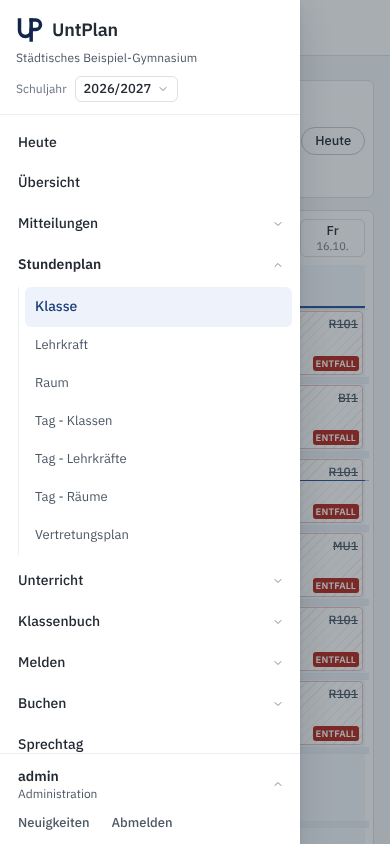
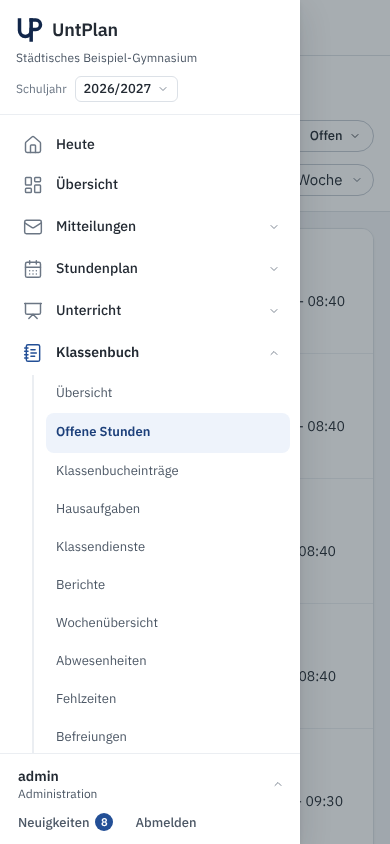
UntPlan Web: Seitenleiste mit Symbolen, moderner Pillen-Stil auch im Klassenbuch
Bereiche der Seitenleiste mit eigenen Linien-Symbolen, abgerundete aktive
Zeile, eingeklappt als Symbolleiste. Klassenbuch-Seiten wieder mit
Pillen-Knöpfen und -Feldern, runden Auswahlkreisen und weichen Karten;
Tabellenzellen auf dem Telefon als Karten. Web-Tests 375 grün.

Claude-Session: https://claude.ai/code/session_01Qh4Tuihm3YFN8v1UQgn9UW

diff --git a/web/src/UntPlanWeb/wwwroot/css/klassenbuch-seiten.css b/web/src/UntPlanWeb/wwwroot/css/klassenbuch-seiten.css
@@ -1,8 +1,7 @@
 /* UntPlan Web – Klassenbuch-Seiten (Übersicht, Offene Stunden, Einträge, Hausaufgaben, Klassendienste, Berichte, Wochenübersicht,
    Abwesenheiten, Fehlzeiten, Befreiungen, Sitzplan, Einstellungen). app.js setzt dafür .kb-seiten an .u-app.
-   Gestaltung: nüchterne, dichte Arbeitsansicht. Weißer Seitenkopf mit Titel (20 px) und einer Filterzeile aus rechteckigen Feldern
-   (32 px hoch, 1px-Rahmen, Radius 4 px), darunter Tabellen mit grauer Kopfzeile, 1px-Linien und 36–40 px hohen Zeilen. Zähler als kleine
-   Ziffern-Schildchen, Status als rechteckige Schilder in den Statusfarben. Keine Pillen, keine Symbolkacheln, keine großen Leerbilder. */
+   Gestaltung: moderne Arbeitsansicht wie die übrigen Seiten – Pillen-Knöpfe und -Felder (Rand 1,5 px), weiche Karten mit Radius 12 px
+   und leichtem Schatten, Tabellen mit grauer Kopfzeile und 1px-Linien, Status als runde Schildchen in den Statusfarben. */
 
 .kb-seiten { --kb-feld-h: 32px; --kb-zeile-h: 38px; }
 
@@ -13,12 +12,12 @@
   background: var(--up-schiefer-100); color: var(--up-text-2); font-size: var(--up-gr-s); font-weight: 500; font-variant-numeric: tabular-nums; vertical-align: 3px; }
 .kb-seiten.u-kopf-weiss #seite .u-kopfteil { margin-bottom: 16px; padding-bottom: 12px; }
 .kb-seiten.u-kopf-weiss:not(.u-kopf-suche) #seitenkopf { margin-bottom: 16px; }
-.kb-seiten.u-kopf-weiss :is(#kopfplatz, .u-kopfskelett)::before { height: var(--kb-feld-h); border-radius: var(--up-radius); }
+.kb-seiten.u-kopf-weiss :is(#kopfplatz, .u-kopfskelett)::before { height: var(--kb-feld-h); border-radius: 999px; }
 
 /* ------------------------------------------------------------------ Bedienelemente der Filterzeile */
 .kb-seiten .u-sf-leiste { gap: 8px 8px; }
 .kb-seiten .u-suchfilter, .kb-seiten.u-kopf-weiss .u-kopfteil .u-suchfilter, .kb-seiten .u-inhalt .u-suchfilter {
-  height: var(--kb-feld-h); min-height: var(--kb-feld-h); padding: 0 4px 0 10px; gap: 6px; border: 1px solid var(--up-rand-stark); border-radius: var(--up-radius);
+  height: var(--kb-feld-h); min-height: var(--kb-feld-h); padding: 0 6px 0 14px; gap: 6px; border: 1.5px solid var(--up-rand-stark); border-radius: 999px;
   background: var(--up-flaeche); box-shadow: none;
 }
 .kb-seiten .u-suchfilter:hover { background: var(--up-flaeche); border-color: var(--up-schiefer-400); }
@@ -30,14 +29,14 @@
 .kb-seiten .u-suchfilter.au-mit-x > .au-x { width: 22px; height: 22px; border-radius: var(--up-radius-s); background: none; }
 .kb-seiten .u-suchfilter.au-mit-x > .au-x:hover { background: var(--up-flaeche-hover); }
 .kb-seiten .u-suchfilter .au-knopf { font-size: var(--up-gr-m); font-weight: 500; }
-.kb-seiten .u-sf-chip { height: 22px; padding: 0 2px 0 8px; border-radius: var(--up-radius-s); background: var(--up-primaer-flaeche); color: var(--up-marine-700);
+.kb-seiten .u-sf-chip { height: 24px; padding: 0 2px 0 10px; border-radius: 999px; background: var(--up-primaer-flaeche); color: var(--up-marine-700);
   border: 1px solid var(--up-primaer-rand); font-size: var(--up-gr-s); font-weight: 500; }
-.kb-seiten .u-sf-chip button, .kb-seiten .u-sf-weg { width: 18px; height: 18px; border-radius: var(--up-radius-s); color: inherit; }
+.kb-seiten .u-sf-chip button, .kb-seiten .u-sf-weg { width: 18px; height: 18px; border-radius: 50%; color: inherit; }
 .kb-seiten .u-sf-chip button:hover, .kb-seiten .u-sf-weg:hover { background: var(--up-marine-100); }
 .kb-seiten .u-sf-zeit { font-size: var(--up-gr-m); font-weight: 500; color: var(--up-text-2); }
 
 .kb-seiten :is(.nl-pille, .kbw-heute, .kbu-heute), .kb-seiten .btn:not(.btn-link):not(.btn-close) {
-  height: var(--kb-feld-h); min-height: var(--kb-feld-h); padding: 0 12px; border-radius: var(--up-radius); border-width: 1px; font-size: var(--up-gr-m); font-weight: 500;
+  height: var(--kb-feld-h); min-height: var(--kb-feld-h); padding: 0 16px; border-radius: 999px; border-width: 1.5px; font-size: var(--up-gr-m); font-weight: 600;
   box-shadow: none;
 }
 .kb-seiten .nl-pille { border: 1px solid var(--up-rand-stark); background: var(--up-flaeche); color: var(--up-text); }
@@ -50,21 +49,23 @@
 .kb-seiten .btn-primary { background: var(--up-primaer); border-color: var(--up-primaer); }
 .kb-seiten .btn-primary:hover { background: var(--up-primaer-hover); border-color: var(--up-primaer-hover); }
 .kb-seiten .btn .bi, .kb-seiten .btn .u-sym { width: 14px; height: 14px; }
-.kb-seiten .au-knopf { min-height: var(--kb-feld-h); border-radius: var(--up-radius); }
+.kb-seiten .au-knopf { min-height: var(--kb-feld-h); border-radius: 999px; }
 
-/* Kennzahlen als Schnellfilter: rechteckige Schalter mit Ziffer */
+/* Kennzahlen als Schnellfilter: runde Schalter mit Ziffer */
 .kb-seiten .nl-zahlen { gap: 6px; margin-bottom: 12px; }
-.kb-seiten .nl-zahl { height: 26px; padding: 0 8px; border: 1px solid var(--up-rand); border-radius: var(--up-radius); background: var(--up-flaeche);
+.kb-seiten .nl-zahl { height: 28px; padding: 0 12px; border: 1.5px solid var(--up-rand); border-radius: 999px; background: var(--up-flaeche);
   font-size: var(--up-gr-s); font-weight: 400; color: var(--up-text-2); }
 .kb-seiten .nl-zahl b { font-weight: 600; color: var(--up-text); font-variant-numeric: tabular-nums; }
-.kb-seiten .nl-zahl.rot { border-left: 3px solid var(--up-entfall); background: var(--up-flaeche); }
+.kb-seiten .nl-zahl.rot { border-color: #f0c4bf; background: var(--up-entfall-flaeche); }
 .kb-seiten .nl-zahl.gelb { border-left: 3px solid var(--up-pruefung); background: var(--up-flaeche); }
 .kb-seiten .nl-zahl.lila { border-left: 3px solid var(--up-termin); background: var(--up-flaeche); }
 .kb-seiten .nl-zahl.aktiv { outline: 0; border-color: var(--up-marine-500); background: var(--up-primaer-flaeche); color: var(--up-marine-700); }
 
 /* ------------------------------------------------------------------ Tabellen */
-.kb-seiten :is(.nl-tabelle, .os-tabelle, .u-tabelle-karte) { border: 1px solid var(--up-rand); border-radius: var(--up-radius); box-shadow: none; background: var(--up-flaeche); }
+.kb-seiten :is(.nl-tabelle, .os-tabelle, .u-tabelle-karte) { border: 1px solid var(--up-rand); border-radius: 12px; box-shadow: 0 1px 3px rgba(21, 26, 33, .06); background: var(--up-flaeche); }
 .kb-seiten :is(.nl-tabelle, .os-tabelle, .u-tabelle-karte) table { font-size: var(--up-gr-m); font-variant-numeric: tabular-nums; }
+/* Zellen nur in der Tabellendarstellung; auf schmalen Bildschirmen bleiben die Zeilen Karten */
+@media (min-width: 768px) {
 .kb-seiten :is(.nl-tabelle, .os-tabelle, .u-tabelle-karte) th, .kb-seiten .os-liste .os-tabelle th {
   height: 34px; padding: 0 10px; background: var(--up-flaeche-2); border-bottom: 1px solid var(--up-rand); font-size: var(--up-gr-s); font-weight: 500;
   color: var(--up-text-2); text-transform: none; letter-spacing: 0; white-space: nowrap;
@@ -74,25 +75,23 @@
 }
 .kb-seiten :is(.nl-tabelle, .os-tabelle) tbody tr:hover td { background: var(--up-flaeche-hover); }
 .kb-seiten .os-liste .os-tabelle td.os-wahl, .kb-seiten .os-liste .os-tabelle th.os-wahl { width: 36px; padding-left: 10px; }
-/* Auswahl in Listen: eckige Kästchen statt runder Knöpfe */
-.kb-seiten :is(.nl-rund, .os-wahl input, .nl-tabelle input[type=checkbox], .nl-tabelle input[type=radio]) { border-radius: 3px !important; }
-.kb-seiten .nl-rund { width: 16px; height: 16px; border: 1px solid var(--up-rand-stark); }
-/* Aktionen in Tabellenzeilen („Prüfen“, „Eingeben“): kleine Textknöpfe */
-.kb-seiten :is(.os-pille, .nl-knopf) { height: 24px; min-height: 0; padding: 0 8px; border: 1px solid var(--up-rand-stark); border-radius: var(--up-radius-s); background: var(--up-flaeche);
-  color: var(--up-text); font-size: var(--up-gr-s); font-weight: 500; box-shadow: none; }
+}
+/* Aktionen in Tabellenzeilen („Prüfen“, „Eingeben“): kleine Pillen */
+.kb-seiten :is(.os-pille, .nl-knopf) { height: 26px; min-height: 0; padding: 0 12px; border: 1.5px solid var(--up-rand-stark); border-radius: 999px; background: var(--up-flaeche);
+  color: var(--up-text); font-size: var(--up-gr-s); font-weight: 600; box-shadow: none; }
 .kb-seiten :is(.os-pille, .nl-knopf):hover { border-color: var(--up-marine-500); color: var(--up-marine-700); background: var(--up-primaer-flaeche); }
 
 /* Status- und Artschilder */
-.kb-seiten :is(.s-label, .u-chip, .kbu-label, .nl-chip) { height: 20px; padding: 0 6px; border-radius: var(--up-radius-s); font-size: var(--up-gr-xs); font-weight: 500;
+.kb-seiten :is(.s-label, .u-chip, .kbu-label, .nl-chip) { height: 22px; padding: 0 9px; border-radius: 999px; font-size: var(--up-gr-xs); font-weight: 500;
   display: inline-flex; align-items: center; line-height: 1; }
 
 /* ------------------------------------------------------------------ Leerzustand: Text in einer schlichten Fläche */
 .kb-seiten :is(.u-leer, .s-leer, .kbw-leer) { padding: 20px 16px; text-align: left; color: var(--up-text-2); font-size: var(--up-gr-m); }
 .kb-seiten .u-leer > .bi, .kb-seiten .u-leer > .u-sym, .kb-seiten .s-leer-symbol { display: none; }
-.kb-seiten .card:has(> .u-leer), .kb-seiten .card:has(> .card-body > .u-leer) { border: 1px solid var(--up-rand); border-radius: var(--up-radius); box-shadow: none; }
+.kb-seiten .card:has(> .u-leer), .kb-seiten .card:has(> .card-body > .u-leer) { border: 1px solid var(--up-rand); border-radius: 12px; box-shadow: 0 1px 3px rgba(21, 26, 33, .06); }
 
 /* ------------------------------------------------------------------ Übersicht / Wochenübersicht (Raster der Unterrichte) */
-.kb-seiten .kbw-rahmen { border: 1px solid var(--up-rand); border-radius: var(--up-radius); box-shadow: none; overflow: hidden; }
+.kb-seiten .kbw-rahmen { border: 1px solid var(--up-rand); border-radius: 12px; box-shadow: 0 1px 3px rgba(21, 26, 33, .06); overflow: hidden; }
 .kb-seiten .kbw-kopf, .kb-seiten .kbw-tag { background: var(--up-flaeche-2); font-size: var(--up-gr-s); font-weight: 500; color: var(--up-text-2); }
 .kb-seiten .kbw-block { border-radius: 0; box-shadow: none; }
 .kb-seiten .kbw-zahlen { font-size: var(--up-gr-s); font-variant-numeric: tabular-nums; }
@@ -101,23 +100,23 @@
 
 /* ------------------------------------------------------------------ Berichte: dichte Liste ohne Symbolkacheln */
 .kb-seiten .br-symbol { display: none; }
-.kb-seiten .br-liste { border: 1px solid var(--up-rand); border-radius: var(--up-radius); background: var(--up-flaeche); overflow: hidden; }
+.kb-seiten .br-liste { border: 1px solid var(--up-rand); border-radius: 12px; box-shadow: 0 1px 3px rgba(21, 26, 33, .06); background: var(--up-flaeche); overflow: hidden; }
 .kb-seiten .br-reihe { grid-template-columns: minmax(0, 1fr) auto auto; padding: 8px 12px; min-height: 48px; border-radius: 0; border: 0; border-bottom: 1px solid var(--up-linie);
   box-shadow: none; background: var(--up-flaeche); }
 .kb-seiten .br-reihe:last-child { border-bottom: 0; }
 .kb-seiten .br-reihe:hover { background: var(--up-flaeche-hover); }
 .kb-seiten .br-reihe-text b, .kb-seiten .br-reihe-text strong { font-size: var(--up-gr-n); font-weight: 600; }
 .kb-seiten .br-reihe-text small, .kb-seiten .br-reihe-text p { font-size: var(--up-gr-s); color: var(--up-text-2); }
-.kb-seiten .br-knopf { height: 26px; padding: 0 8px; border: 1px solid var(--up-rand-stark); border-radius: var(--up-radius-s); background: var(--up-flaeche);
-  font-size: var(--up-gr-s); font-weight: 500; color: var(--up-text); }
+.kb-seiten .br-knopf { height: 30px; padding: 0 14px; gap: 6px; border: 1.5px solid var(--up-rand-stark); border-radius: 999px; background: var(--up-flaeche);
+  font-size: var(--up-gr-s); font-weight: 600; color: var(--up-text); }
 .kb-seiten .br-knopf:hover { border-color: var(--up-marine-500); color: var(--up-marine-700); }
-.kb-seiten .br-knopf .bi { display: none; }
+.kb-seiten .br-knopf .bi { width: 14px; height: 14px; }
 .kb-seiten .br-abschnitt > h2, .kb-seiten .br-abschnitt > h3, .kb-seiten .br-abschnitt-titel { font-size: var(--up-gr-s); font-weight: 600; color: var(--up-text-2);
   text-transform: none; letter-spacing: 0; margin: 16px 0 6px; }
 
 /* ------------------------------------------------------------------ Klassendienste, Einstellungen, Sitzplan */
 .kb-seiten .kd-bericht .bi, .kb-seiten .kbe-symbol { display: none; }
-.kb-seiten .kbe-karte { border: 1px solid var(--up-rand); border-radius: var(--up-radius); box-shadow: none; }
+.kb-seiten .kbe-karte { border: 1px solid var(--up-rand); border-radius: 12px; box-shadow: 0 1px 3px rgba(21, 26, 33, .06); }
 .kb-seiten .kbe-reiter { border-bottom: 1px solid var(--up-rand); }
 .kb-seiten .kbe-reiter :is(a, button) .bi { display: none; }
 .kb-seiten .sp-knopf { border-radius: var(--up-radius); }

diff --git a/web/src/UntPlanWeb/wwwroot/css/seitenleiste.css b/web/src/UntPlanWeb/wwwroot/css/seitenleiste.css
@@ -1,10 +1,10 @@
 /* UntPlan Web – Seitenleiste (js/app.js: huelle, leisteZeichnen). Wird als letzte Stildatei geladen.
-   Helle Leiste links mit 1px-Linie: oben Zeichen und Wortmarke mit dem Schulnamen, darunter das Schuljahr, dann die Bereiche als
-   aufklappbare Textgruppen (Pfeil rechts), unten Konto, Neuigkeiten, Abmelden und „Navigation ausblenden“. Keine Symbole vor den
-   Menüpunkten, kein Balken am aktiven Punkt – der aktive Punkt hat eine helle Marine-Fläche und Marine-Schrift.
-   Ausgeblendet bleibt links eine schmale Schiene mit dem Menüknopf. Telefon/Tablet (< 992 px): Kopfleiste mit „Menü“, Leiste als Schublade. */
+   Helle Leiste links: oben Zeichen und Wortmarke mit dem Schulnamen, darunter das Schuljahr, dann die Bereiche mit eigenen
+   Linien-Symbolen (Lucide). Bereiche klappen an Ort und Stelle auf (Unterpunkte eingerückt an einer feinen Linie, ohne Symbole).
+   Aktiver Punkt: abgerundete Marine-Fläche, Symbol in Marine. Unten Konto, Neuigkeiten, Abmelden und Einklappen.
+   Eingeklappt bleibt eine schmale Leiste mit den Symbolen der Bereiche. Telefon/Tablet (< 992 px): Leiste als Schublade. */
 
-:root { --u-leiste: 248px; --u-leiste-zu: 40px; }
+:root { --u-leiste: 256px; --u-leiste-zu: 68px; }
 
 .u-app .u-leiste {
   width: var(--u-leiste); background: var(--up-flaeche); box-shadow: none; border-right: 1px solid var(--up-rand);
@@ -39,9 +39,9 @@
 .u-app .u-jahrliste button { font-weight: 400; font-size: var(--up-gr-m); padding: 5px 14px; font-variant-numeric: tabular-nums; }
 
 /* Menü */
-.u-app .u-nav { padding: 8px 8px 16px; }
+.u-app .u-nav { padding: 10px 10px 16px; }
 .u-app .u-nav-punkt, .u-app .u-nav-punkt:hover, .u-app .u-nav-punkt.aktiv, .u-app .u-nav-punkt.aktiv:hover {
-  width: 100%; min-height: 32px; gap: 8px; padding: 0 8px 0 10px; margin: 0; border-radius: var(--up-radius);
+  width: 100%; min-height: 40px; gap: 12px; padding: 0 10px 0 12px; margin: 0; border-radius: 10px;
   font-size: var(--up-gr-n); font-weight: 500; color: var(--up-text); line-height: 1.25;
 }
 .u-app .u-nav-punkt::before { content: none; }
@@ -49,17 +49,24 @@
 .u-app .u-nav-punkt:hover { background: var(--up-flaeche-hover); color: var(--up-text); }
 .u-app .u-nav-punkt.aktiv, .u-app .u-nav-punkt.aktiv:hover { background: var(--up-primaer-flaeche); color: var(--up-marine-700); font-weight: 600; }
 .u-app .u-nav-punkt:focus-visible { outline: 2px solid var(--up-fokus, var(--up-marine-500)); outline-offset: -2px; }
-.u-app .u-nav-gruppe + .u-nav-gruppe, .u-app .u-nav-punkt + .u-nav-gruppe, .u-app .u-nav-gruppe + .u-nav-punkt { margin-top: 1px; }
+.u-nav-sym { width: 22px; height: 22px; flex: none; display: inline-flex; align-items: center; justify-content: center; color: var(--up-text-2); }
+.u-nav-sym .u-sym { width: 20px; height: 20px; vertical-align: 0; }
+.u-app .u-nav-punkt:hover .u-nav-sym { color: var(--up-text); }
+.u-app .u-nav-punkt.aktiv .u-nav-sym, .u-app .u-nav-gruppe.hat-aktiv > .u-nav-kopf .u-nav-sym { color: var(--up-marine-600); }
+.u-app .u-nav-text { flex: 1; min-width: 0; overflow: hidden; text-overflow: ellipsis; white-space: nowrap; }
+.u-app .u-nav-gruppe + .u-nav-gruppe, .u-app .u-nav-punkt + .u-nav-gruppe, .u-app .u-nav-gruppe + .u-nav-punkt { margin-top: 2px; }
 .u-app .u-nav-kopf.aktiv, .u-app .u-nav-kopf.aktiv:hover { background: none; color: var(--up-text); font-weight: 600; }
 .u-app .u-nav-kopf.aktiv:hover { background: var(--up-flaeche-hover); }
+.u-app .u-nav-gruppe.auf > .u-nav-kopf { font-weight: 600; }
 .u-nav-pfeil { width: 12px; height: 12px; flex: none; color: var(--up-text-3); transition: transform .15s ease; }
 .u-nav-gruppe.auf > .u-nav-kopf .u-nav-pfeil { transform: rotate(180deg); }
-.u-nav-liste { margin: 2px 0 6px 10px; padding-left: 6px; border-left: 1px solid var(--up-linie); }
+.u-nav-liste { margin: 2px 0 8px 22px; padding-left: 12px; border-left: 2px solid var(--up-linie); }
 .u-nav-liste[hidden] { display: none; }
-.u-app .u-nav-unterpunkt, .u-app .u-nav-unterpunkt:hover { min-height: 30px; font-weight: 400; font-size: var(--up-gr-m); color: var(--up-text-2); }
+.u-app .u-nav-unterpunkt, .u-app .u-nav-unterpunkt:hover, .u-app .u-nav-unterpunkt.aktiv, .u-app .u-nav-unterpunkt.aktiv:hover {
+  min-height: 34px; padding: 0 10px; border-radius: 8px; font-weight: 400; font-size: var(--up-gr-m); color: var(--up-text-2); }
 .u-app .u-nav-unterpunkt:hover { color: var(--up-text); }
-.u-app .u-nav-unterpunkt.aktiv, .u-app .u-nav-unterpunkt.aktiv:hover { font-weight: 500; color: var(--up-marine-700); }
-.u-app .u-nav .u-zahl { margin-left: auto; min-width: 20px; height: 18px; padding: 0 6px; border-radius: var(--up-radius-s); background: var(--up-primaer);
+.u-app .u-nav-unterpunkt.aktiv, .u-app .u-nav-unterpunkt.aktiv:hover { font-weight: 600; color: var(--up-marine-700); }
+.u-app .u-nav .u-zahl { margin-left: auto; min-width: 20px; height: 20px; padding: 0 6px; border-radius: 999px; background: var(--up-primaer);
   color: #fff; font-size: var(--up-gr-xs); font-weight: 600; display: inline-flex; align-items: center; justify-content: center; position: static; }
 .u-app .u-nav .u-zahl.d-none { display: none; }
 
@@ -81,8 +88,8 @@
   display: flex; align-items: center; justify-content: flex-start; gap: 6px; width: 100%; height: 28px; margin: 4px 0 0; padding: 0 10px; border: 0; border-radius: var(--up-radius);
   background: none; color: var(--up-text-3); font-size: var(--up-gr-s);
 }
-.u-app .u-griff span, .u-app .u-griff:hover span { position: static; width: auto; height: auto; transform: none; background: none; border-radius: 0; }
-.u-app .u-griff span::after { content: none; }
+.u-app .u-griff span:not(.u-sym), .u-app .u-griff:hover span:not(.u-sym) { position: static; width: auto; height: auto; transform: none; background: none; border-radius: 0; }
+.u-app .u-griff span:not(.u-sym)::after { content: none; }
 .u-app .u-griff:hover { background: var(--up-flaeche-hover); color: var(--up-text); }
 .u-app .u-griff .u-sym, .u-app .u-griff .bi { width: 14px; height: 14px; }
 .u-app .u-kontomenue { left: 8px; right: 8px; bottom: calc(100% - 4px); border-radius: var(--up-radius); border: 1px solid var(--up-rand); box-shadow: var(--up-schatten-2); padding: 4px 0; }
@@ -91,20 +98,21 @@
 .u-app .u-kontokopf { padding: 6px 12px 2px; font-size: var(--up-gr-xs); color: var(--up-text-3); text-transform: none; letter-spacing: 0; }
 .u-app .u-konto small { font-weight: 400; color: var(--up-text-2); }
 
-/* Ausgeblendete Leiste: schmale Schiene mit Menüknopf */
+/* Eingeklappte Leiste: schmale Leiste mit den Symbolen der Bereiche (Unterpunkte öffnen beim Aufklappen der Leiste) */
 .u-leiste-auf { display: none; }
 @media (min-width: 992px) {
-  .u-app.zu .u-leiste { width: var(--u-leiste); transform: translateX(-102%); }
+  .u-app.zu .u-leiste { width: var(--u-leiste-zu); transform: none; overflow: hidden; }
   .u-app.zu .u-haupt { margin-left: var(--u-leiste-zu); }
-  .u-app.zu .u-leiste-auf {
-    display: flex; justify-content: center; position: fixed; inset: 0 auto 0 0; z-index: 1039; width: var(--u-leiste-zu); padding: 12px 0 0;
-    border: 0; border-right: 1px solid var(--up-rand); background: var(--up-flaeche); color: var(--up-text-2);
-  }
-  .u-app.zu .u-leiste-auf:hover { color: var(--up-text); background: var(--up-flaeche-hover); }
-  .u-app.zu .u-leiste-auf .u-sym, .u-app.zu .u-leiste-auf .bi { width: 18px; height: 18px; }
-  /* eingeklappte Darstellung mit Symbolen gibt es nicht mehr – Text bleibt immer sichtbar */
-  .u-app.zu .u-marke span, .u-app.zu .u-nav-text, .u-app.zu .u-benutzer-text { display: revert; }
-  .u-app.zu .u-jahrzeile { display: block; }
+  .u-app.zu .u-marke small, .u-app.zu .u-marke .wortmarke, .u-app.zu .u-jahrzeile, .u-app.zu .u-nav-text, .u-app.zu .u-nav-pfeil,
+  .u-app.zu .u-nav-liste, .u-app.zu .u-benutzer-text, .u-app.zu .u-benutzer > .bi, .u-app.zu .u-fusslinks, .u-app.zu .u-griff > span:not(.u-sym),
+  .u-app.zu .u-nav .u-zahl { display: none !important; }
+  .u-app.zu .u-leistenkopf { padding: 16px 0 12px; display: flex; justify-content: center; }
+  .u-app.zu .u-nav { padding: 10px 8px; }
+  .u-app.zu .u-nav-punkt, .u-app.zu .u-nav-punkt:hover, .u-app.zu .u-nav-punkt.aktiv { justify-content: center; padding: 0; gap: 0; }
+  .u-app.zu .u-nav-gruppe.hat-aktiv > .u-nav-kopf { background: var(--up-primaer-flaeche); }
+  .u-app.zu .u-fuss { padding: 8px; }
+  .u-app.zu .u-benutzer { justify-content: center; padding: 6px 0; }
+  .u-app.zu .u-griff { justify-content: center; padding: 0; }
 }
 
 /* Telefon und Tablet: Kopfleiste mit „Menü“, Leiste als Schublade */
@@ -124,3 +132,9 @@
   .u-app .u-nav-unterpunkt, .u-app .u-nav-unterpunkt:hover { min-height: 38px; }
 }
 @media print { .u-leiste-auf { display: none !important; } }
+.u-app.zu .u-griff .u-sym { transform: rotate(180deg); }
+.u-benutzer-sym { display: none; }
+@media (min-width: 992px) { .u-app.zu .u-benutzer-sym { display: inline-flex; } .u-app.zu .u-benutzer-sym .u-sym { width: 20px; height: 20px; } }
+.u-app .u-griff .u-sym, .u-app .u-griff:hover .u-sym { position: static; transform: none; width: 14px; height: 14px; border-radius: 0; background-color: currentColor; top: auto; left: auto; }
+.u-app .u-griff .u-sym::after { content: none; }
+.u-app.zu .u-griff .u-sym { transform: rotate(180deg); }

diff --git a/web/src/UntPlanWeb/wwwroot/js/app.js b/web/src/UntPlanWeb/wwwroot/js/app.js
@@ -1,7 +1,7 @@
 // UntPlanWeb – Einstieg: Sitzung laden, Anmeldung/Einrichtung, Hülle (helle Seitenleiste links mit Marke, Schuljahr, Bereichen als
 // aufklappbaren Textgruppen, Konto unten) und Hash-Router.
 import { icon, e, holen, senden, api, fehler, alarm, lade, toast } from './ui.js';
-import { MARKE } from './symbole.js';
+import { MARKE, symbol } from './symbole.js';
 import { beobachten as auswahlBeobachten } from './auswahl.js';
 import { beobachten as kalenderBeobachten } from './kalender.js';
 
@@ -549,18 +549,18 @@ function leisteZeichnen() {
   zaehlerAktualisieren();
 }
 
-/** Einzelner Menüpunkt: reiner Text, rechts ggf. die Zahl ungelesener Mitteilungen. */
+/** Einzelner Menüpunkt: Hauptpunkte mit Symbol, Unterpunkte als Text; rechts ggf. die Zahl ungelesener Mitteilungen. */
 function punktHtml(p, unter = false) {
-  return `<a class="u-nav-punkt ${unter ? 'u-nav-unterpunkt' : ''}" href="${p.href}" data-nav="${p.nav}"><span class="u-nav-text">${e(p.text)}</span>`
+  return `<a class="u-nav-punkt ${unter ? 'u-nav-unterpunkt' : ''}" href="${p.href}" data-nav="${p.nav}" title="${e(p.text)}">${unter ? '' : `<span class="u-nav-sym">${symbol(p.icon) ?? ''}</span>`}<span class="u-nav-text">${e(p.text)}</span>`
     + `${p.zaehler ? '<span class="u-zahl d-none" data-zaehler></span>' : ''}</a>`;
 }
 
-/** Bereich mit Unterpunkten: Kopfzeile zum Auf- und Zuklappen (Pfeil rechts), darunter eingerückt die Seiten. */
+/** Bereich mit Unterpunkten: Kopfzeile mit Symbol zum Auf- und Zuklappen (Pfeil rechts), darunter eingerückt die Seiten. */
 function gruppeHtml(g) {
   const auf = offeneGruppen.has(g.id);
   return `<div class="u-nav-gruppe ${auf ? 'auf' : ''}" data-gruppe-box="${g.id}">
       <button type="button" class="u-nav-punkt u-nav-kopf" data-gruppe="${g.id}" aria-expanded="${auf}" aria-controls="u-nav-${g.id}">
-        <span class="u-nav-text">${e(g.text)}</span>${g.zaehler ? '<span class="u-zahl d-none" data-zaehler></span>' : ''}<i class="bi bi-chevron-down u-nav-pfeil" aria-hidden="true"></i></button>
+        <span class="u-nav-sym">${symbol(g.icon) ?? ''}</span><span class="u-nav-text">${e(g.text)}</span>${g.zaehler ? '<span class="u-zahl d-none" data-zaehler></span>' : ''}<i class="bi bi-chevron-down u-nav-pfeil" aria-hidden="true"></i></button>
       <div class="u-nav-liste" id="u-nav-${g.id}" ${auf ? '' : 'hidden'}>${g.unter.filter(p => !p.verborgen).map(p => punktHtml(p, true)).join('')}</div>
     </div>`;
 }
@@ -606,6 +606,7 @@ function aktivMarkieren() {
     if (an) a.setAttribute('aria-current', 'page'); else a.removeAttribute('aria-current');
   });
   document.querySelectorAll('#seitenleiste [data-gruppe]').forEach(a => a.classList.toggle('aktiv', a.dataset.gruppe === gruppe?.id));
+  document.querySelectorAll('#seitenleiste [data-gruppe-box]').forEach(b => b.classList.toggle('hat-aktiv', b.dataset.gruppeBox === gruppe?.id));
   document.querySelector('.u-benutzer')?.classList.toggle('aktiv', aktiverPunkt === 'profil');
 }
 
@@ -626,13 +627,13 @@ function huelle() {
         <nav class="u-nav"></nav>
         <div class="u-fuss">
           <button type="button" class="u-benutzer" data-kontomenue title="Konto" aria-haspopup="menu" aria-expanded="false">
-            <span class="u-benutzer-text"><b>${e(b.login)}</b><small>${e(b.rollenname)}</small></span><i class="bi bi-chevron-up" aria-hidden="true"></i></button>
+            <span class="u-benutzer-sym">${symbol('profil')}</span><span class="u-benutzer-text"><b>${e(b.login)}</b><small>${e(b.rollenname)}</small></span><i class="bi bi-chevron-up" aria-hidden="true"></i></button>
           <div class="u-kontomenue d-none" role="menu" data-konten></div>
           <div class="u-fusslinks">
             <a class="u-abmelden u-neuigkeiten" href="#/neuigkeiten" data-neuigkeiten>Neuigkeiten</a>
             <button type="button" class="u-abmelden" data-abmelden>Abmelden</button>
           </div>
-          <button type="button" class="u-griff" data-einklappen title="Navigation ausblenden" aria-label="Navigation ein- oder ausblenden"><span>Navigation ausblenden</span></button>
+          <button type="button" class="u-griff" data-einklappen title="Navigation ein- oder ausklappen" aria-label="Navigation ein- oder ausklappen">${symbol('einklappen')}<span>Navigation einklappen</span></button>
         </div>
       </aside>
       <button type="button" class="u-leiste-auf" data-ausklappen title="Navigation einblenden" aria-label="Navigation einblenden">${icon('menue')}</button>
@@ -660,11 +661,13 @@ function huelle() {
     document.body.classList.toggle('leiste-zu', z);
     try { localStorage.setItem('untplan:leiste', z ? 'zu' : 'offen'); } catch { /* privat */ }
   };
-  app.querySelector('[data-einklappen]').onclick = () => einklappen(true);
+  app.querySelector('[data-einklappen]').onclick = () => einklappen(!huelleEl.classList.contains('zu'));
   app.querySelector('[data-ausklappen]').onclick = () => einklappen(false);
   app.querySelector('[data-kontomenue]').onclick = ev => { ev.stopPropagation(); kontomenue(); };
   leiste.addEventListener('click', ev => {
     const g = ev.target.closest('[data-gruppe]');
+    // eingeklappt: Bereich anklicken klappt die Leiste aus und öffnet ihn
+    if (g && huelleEl.classList.contains('zu')) { einklappen(false); gruppeUmschalten(g.dataset.gruppe, true); return; }
     if (g) { gruppeUmschalten(g.dataset.gruppe); return; }
     if (ev.target.closest('[data-nav], .u-marke, [data-profil], [data-neuigkeiten]')) mobilZu();
   });

diff --git a/web/README.md b/web/README.md
@@ -17,11 +17,12 @@ Symbole sind Linien-Symbole aus **Lucide** (ISC-Lizenz, `wwwroot/lib/lucide/LICE
 Favicon und App-Symbole (`img/logo.svg`, `img/icon-*.png`, `img/maskable-*.png`, `img/apple-touch-icon.png`) aus dem Monogramm.
 
 - **Seitenleiste links** (`css/seitenleiste.css`): helle Leiste mit Zeichen, Wortmarke, Schulname und Schuljahr-Auswahl. Die
-  Bereiche (*Mitteilungen*, *Stundenplan*, *Unterricht*, *Klassenbuch*, *Melden*, *Buchen*, *Stammdaten*, *Administration*) sind
-  Textgruppen, die sich an Ort und Stelle aufklappen; es ist immer nur ein Bereich offen, der Bereich der aktuellen Seite klappt
-  von selbst auf. Der aktive Punkt ist hell marineblau hinterlegt. Unten Konto (Profil, Konto wechseln, weiteres Konto),
-  *Neuigkeiten*, *Abmelden* und *Navigation ausblenden* (dann bleibt links eine schmale Schiene mit dem Menüknopf). Auf Telefon
-  und Tablet öffnet der Knopf *Menü* in der Kopfleiste die Leiste als Schublade.
+  Bereiche (*Heute*, *Übersicht*, *Mitteilungen*, *Stundenplan*, *Unterricht*, *Klassenbuch*, *Melden*, *Buchen*, *Sprechtag*,
+  *Stammdaten*, *Administration*) stehen mit eigenen Linien-Symbolen in abgerundeten Zeilen; Bereiche klappen an Ort und Stelle auf,
+  die Unterpunkte stehen eingerückt an einer feinen Linie. Es ist immer nur ein Bereich offen, der Bereich der aktuellen Seite
+  klappt von selbst auf; der aktive Punkt ist hell marineblau hinterlegt. Unten Konto (Profil, Konto wechseln, weiteres Konto),
+  *Neuigkeiten*, *Abmelden* und *Navigation einklappen* – eingeklappt bleibt eine schmale Leiste mit den Symbolen der Bereiche.
+  Auf Telefon und Tablet öffnet der Knopf *Menü* in der Kopfleiste die Leiste als Schublade.
 - **Stundenplan** (`js/plangitter.js`, `js/ansichten/plan.js`, `css/karten.css`): Werkzeugleiste über dem Raster mit Elementwahl,
   Woche (KW und Datumsbereich, Kalender), *Heute*, Umschalter *Woche/Tag*, Statusfiltern (Entfall, Prüfung, Änderung – anklickbar
   zum Ausblenden), Menü *Ansicht* (Symbole, Uhrzeiten, Abwesenheiten, Pausenaufsichten, Drucken, öffentlicher Link) und Hilfe.

diff --git a/design/DESIGN.md b/design/DESIGN.md
@@ -93,7 +93,7 @@ iOS verwendet die Systemschrift (SF Pro) – das ist dort der Standard und wirkt
 | Produkt | Navigation |
 |---|---|
 | **Studio** | Seitenbasierte Web-Anwendung (eine Seite je Aufgabe, Adresse in der URL, Zurück-Taste funktioniert). Helle Seitenleiste nur mit Text (Bereiche und Seiten), Kopfleiste mit Wortmarke, Schuldatei, Modus, Suche, Konto. Jede Seite: Seitenkopf (Titel 20 px, Untertitel, Aktionen rechts als Textknöpfe), Filterleiste, Inhalt; Details in einem Seitenbereich rechts; Bearbeiten in Dialogen. Arbeitsplätze, die mehrere Inhalte gleichzeitig brauchen (Vertretungsplanung, manuelles Planen), sind fest gestaltete Seiten mit Haupt- und Nebenbereich – keine frei schwebenden oder frei teilbaren Fenster, keine Reiterleisten mit Fenstern. |
-| **Web** | Bedienelemente (Knöpfe, Felder, Listen, Dialoge) und Seitenaufbau bleiben wie bisher, nur in den Farben dieses Designsystems. Neu gestaltet sind die Seitenleiste (eigenständig, Text, nur funktionale Symbole), der Stundenplan (Abschnitt 5) und die Klassenbuch-Seiten. Keine Symbole oder Grafiken anderer Produkte. |
+| **Web** | Moderner, freundlicher Stil der bisherigen Bedienelemente (Pillen-Knöpfe, runde Felder, weiche Karten mit Radius 12 px) in den Farben dieses Designsystems. Seitenleiste mit eigenen Linien-Symbolen vor den Bereichen (Unterpunkte als Text), abgerundete aktive Zeile, einklappbar zur Symbolleiste. Eigener Stundenplan (Abschnitt 5) und eigene Klassenbuch-Seiten. Keine Symbole oder Grafiken anderer Produkte. |
 | **Mobile (PWA)** | Untere Leiste *Heute · Plan · Postfach · Mehr* (Linien-Symbol + Beschriftung, das ist auf Telefonen Standard), große Seitentitel, Listen statt Karten-Kacheln, keine Logo-Kachel. |
 | **iOS** | `TabView` *Heute · Plan · Postfach · Mehr* mit SF Symbols, `NavigationStack` mit großen Titeln, Akzentfarbe Marine. |
 
